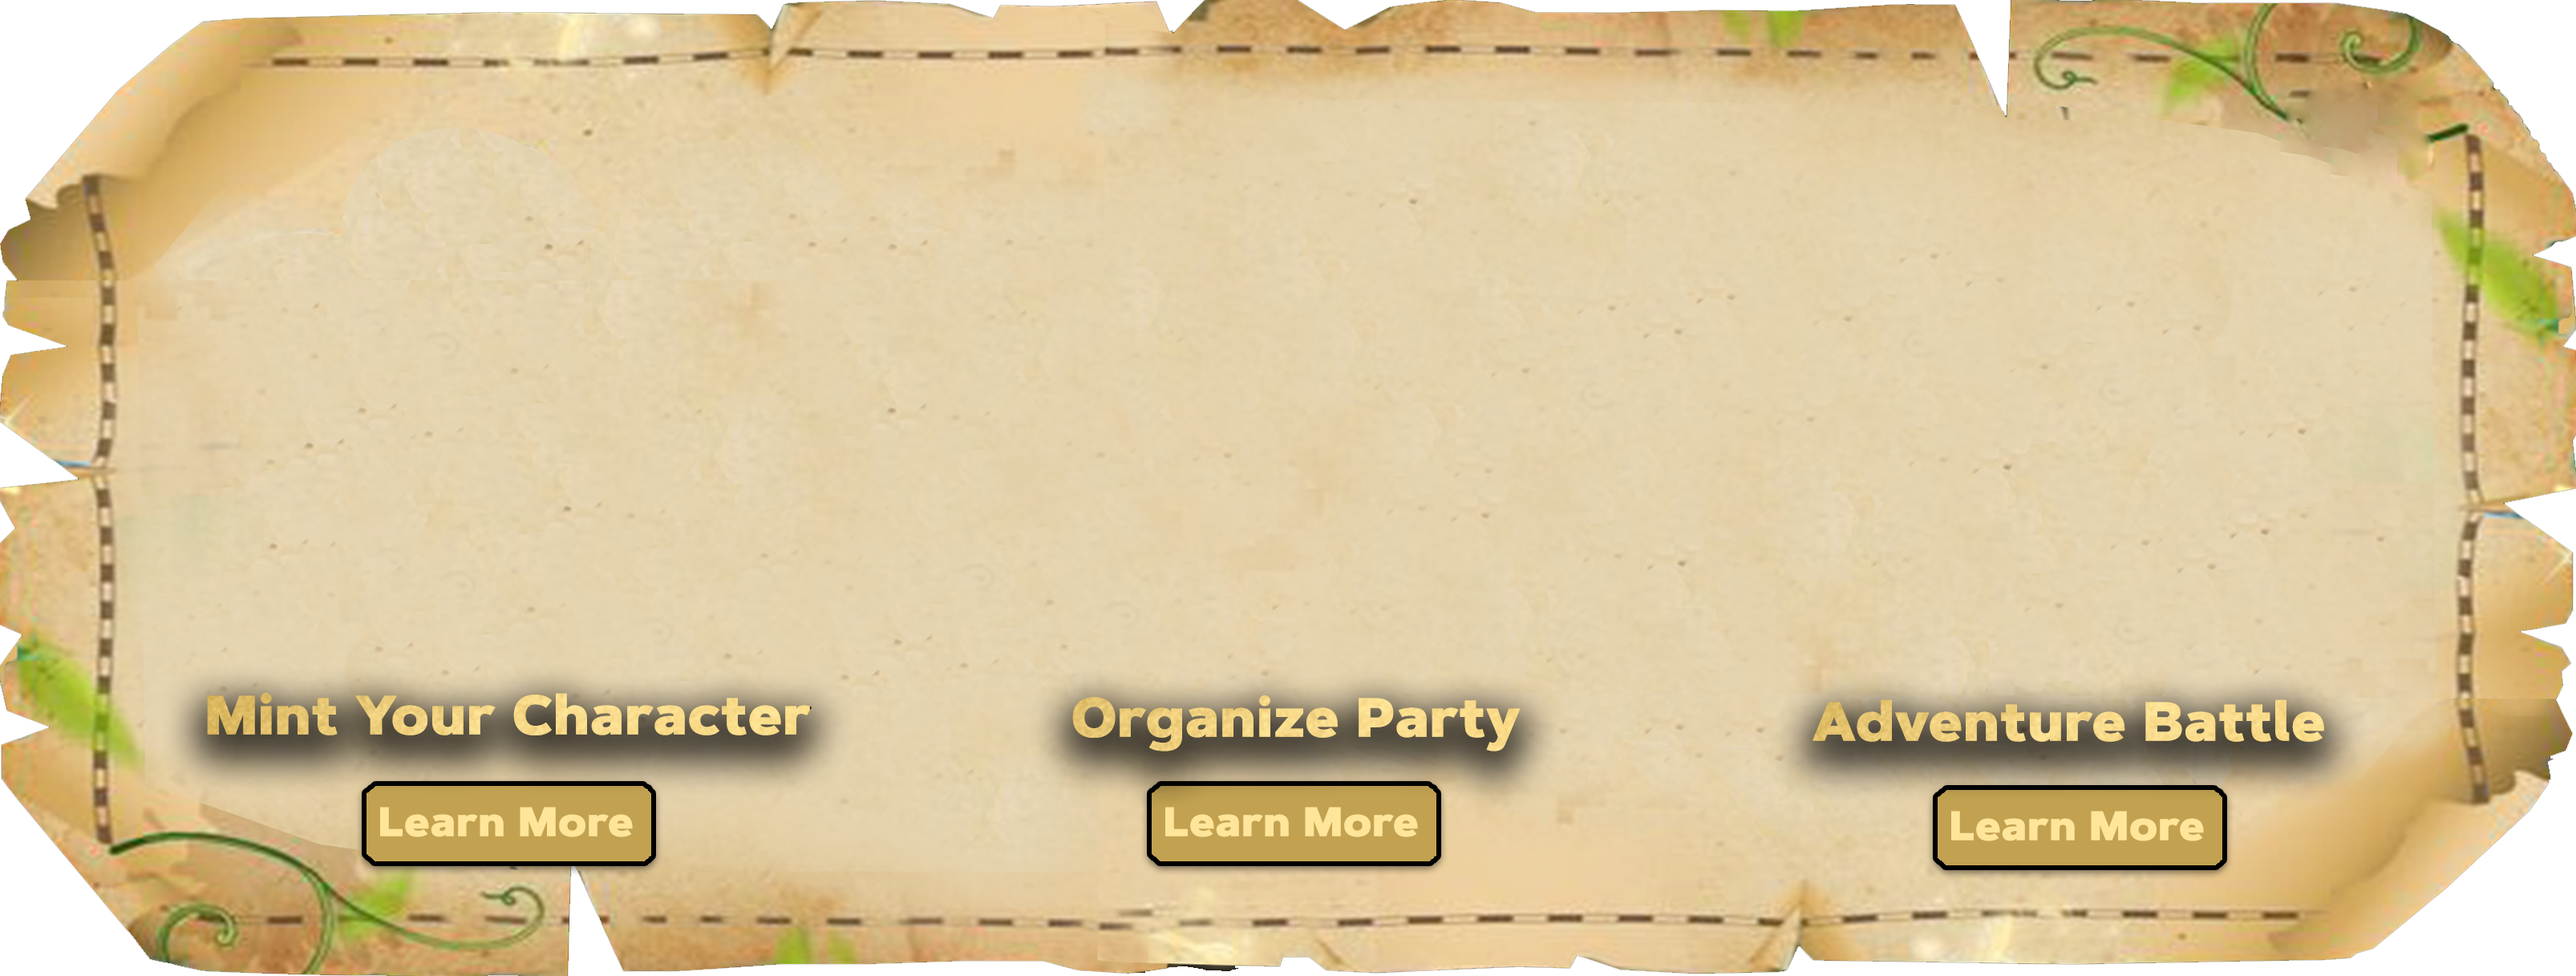
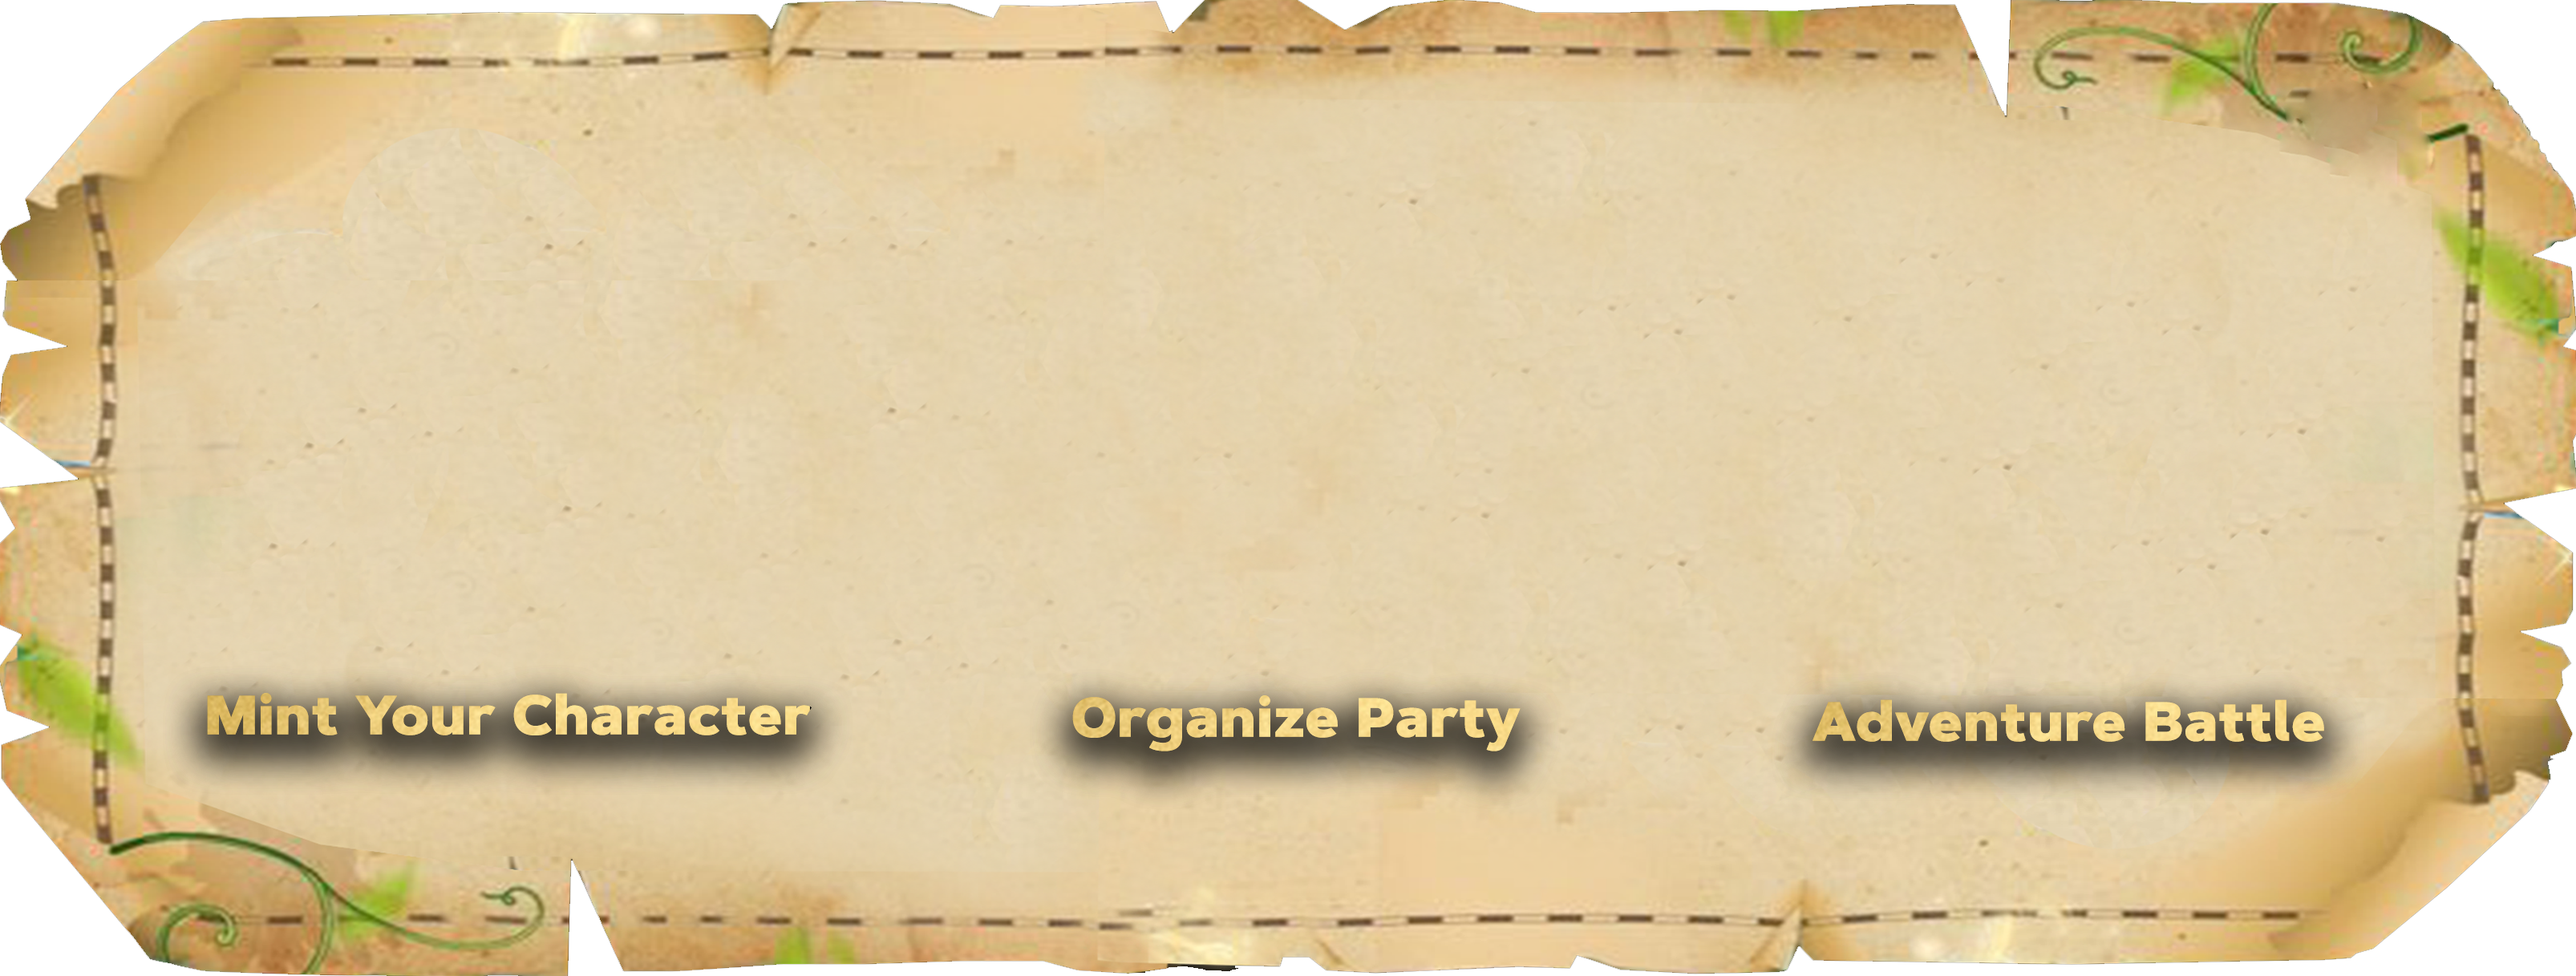
update getting started

Changed region(s): [[0.1245, 0.7806, 0.2802, 0.9055], [0.7472, 0.7806, 0.8717, 0.9055], [0.4359, 0.7806, 0.5604, 0.9055]]

diff --git a/src/pages/Dashboard/GettingStarted.js b/src/pages/Dashboard/GettingStarted.js
@@ -5,8 +5,12 @@ import getting_started_ from '../../assets/images/1_getting_started.png';
 import mint_your_character from '../../assets/images/1-1_mint your_character.gif';
 import organize_party from '../../assets/images/1-2_organize_party.gif';
 import Adventure_Battle from '../../assets/images/1-3_Adventure_Battle.gif';
+import getting_started_learn_more from '../../assets/images/getting_started_learn_more.png';
+import { useHistory } from 'react-router-dom'
+import Pdf from '../../assets/whitepaper.pdf';
 
 export const GettingStarted = () => {
+    const history = useHistory();
     return (
         <>
             <div className="image_background page_two">
@@ -15,9 +19,24 @@ export const GettingStarted = () => {
                 <div className="getting_started_images">
                     <img className="getting_started_ getting_started_bg" src={getting_started_} alt="Logo" />
                     <div className="getting_started_" style={{ padding: '50px' }}>
+                        <div>
                         <img src={mint_your_character} alt="Logo" />
+                        <div className="getting_started_learn_more">
+                        <a href="https://medium.com/@WorldofRagnarok/nft-cosmetics-rarity-292146825c65"><img src={getting_started_learn_more}alt="Logo" /> </a>
+                        </div>
+                        </div>
+                        <div>
                         <img src={organize_party} alt="Logo" />
+                        <div className="getting_started_learn_more">
+                        <a onClick={() => history.push("/partyhall")}><img src={getting_started_learn_more} alt="Logo" /></a>
+                        </div>
+                        </div>
+                        <div>
                         <img src={Adventure_Battle} alt="Logo" />
+                        <div className="getting_started_learn_more">
+                            <a href={Pdf} rel="noopener noreferrer" target="_blank"><img src={getting_started_learn_more} alt="Logo" /></a>
+                        </div>
+                        </div>
                     </div>
                 </div>
             </div>

diff --git a/src/App.css b/src/App.css
@@ -47,7 +47,7 @@ img.PLAY_TO_EARN {
   position: absolute;
   right: 0;
   bottom: 0;
-  cursor: url('./assets/images/cursor/CURSOR3.png'), auto;;
+  /* cursor: url('./assets/images/cursor/CURSOR3.png'), auto;; */
 }
 
 .getting_started_images {
@@ -64,7 +64,7 @@ img.PLAY_TO_EARN {
   display: flex;
   align-items: center;
 }
-.getting_started_ img {
+.getting_started_>img {
   width: 33%;
   height: 40%;
 }
@@ -73,6 +73,21 @@ img.PLAY_TO_EARN {
   height: 50%;
   left: 2px;
   bottom: 57px;
+}
+
+.getting_started_>div {
+  width: 33%;
+  height: 40%;
+}
+
+.getting_started_learn_more {
+  margin-top: 70px;
+  height: 20%;
+  width: 50%;
+  margin-left: 25%;
+}
+.getting_started_learn_more img {
+  cursor: url('./assets/images/cursor/CURSOR3.png'), auto;
 }
 
 /* Page 2 end */

diff --git a/src/assets/styles/header.css b/src/assets/styles/header.css
@@ -46,7 +46,7 @@ li.nav-item {
     color: #fff !important;
     font-family: ui-serif;
     font-weight: 600;
-    cursor: url('../images/cursor/CURSOR3.png'), auto;;
+    cursor: url('../images/cursor/CURSOR3.png'), auto;
     text-shadow: 3px 8px 3px #000;
 }
 a.nav-link {
